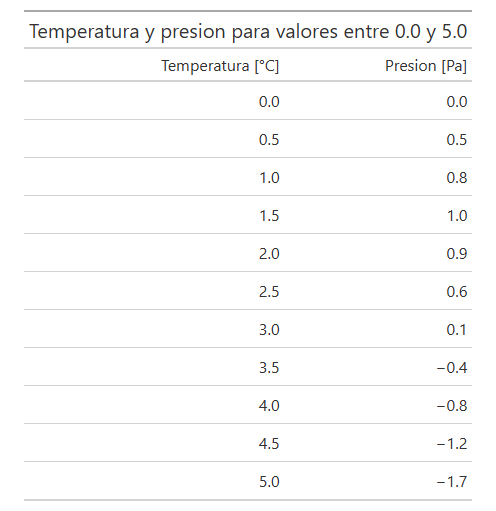
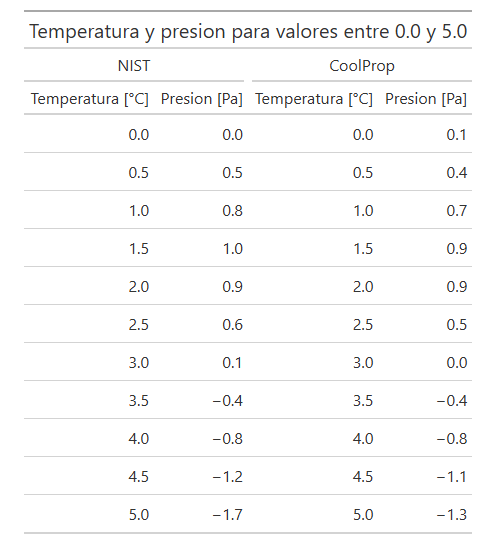
actualizacion de ayuda de la funcion de tabulacion

diff --git a/src/thermo_pkg_nist_compare/generador_tablas.py b/src/thermo_pkg_nist_compare/generador_tablas.py
@@ -5,16 +5,47 @@ import pandas as pd
 from great_tables import GT
 
 #pip install great_tables
-def tabular(x, y, titulo_1="NIST", x_comp=None, y_comp=None, titulo_2="Otro" ,comienzo=None, fin=None, espaciado=None, decimales=3, nombre_x=None, nombre_y=None, unidad_x=None, unidad_y=None, interpolar=True):
+def tabular(x, y, titulo_1="NIST", x_comp=None, y_comp=None, titulo_2="Otro",comienzo=None, fin=None, espaciado=None, decimales=3, nombre_x=None, nombre_y=None, unidad_x=None, unidad_y=None, interpolar=True):
     """
-    Genera una tabla con valores interpolados de (x, y) y la guarda como imagen.
+    Genera una tabla con uno o dos sets de datos (x, y), interpolados o tal cual.
 
-    Interpola con un spline cuadrático desde `comienzo` cada `espaciado`, sin pasarse de `fin`, incluyéndolo.
-    Por defecto: comienzo=x[0], fin=x[-1], espaciado=(fin-comienzo)/20.
-    `decimales` fija cuántos decimales se muestran en la tabla.
+    El set principal (x, y) ocupa las dos primeras columnas. Si se pasan x_comp e y_comp, se agrega
+    un segundo set de comparación en dos columnas más, y cada set lleva arriba su
+    subtítulo (titulo_1 y titulo_2) para identificarlo. Con un solo set no se muestran subtítulos.
+    Si los sets tienen distinto largo, las celdas que sobran quedan vacías.
 
-    Si se pasan nombres y unidades de las variables, guarda la tabla como PNG
-    en la carpeta "Tablas". Si falta alguno, no la gguarda, solo la genera.
+    Si interpolar es True, cada set se reemplaza por su interpolación: un spline cuadrático
+    evaluado desde comienzo cada espaciado, hasta fin e incluyéndolo. Si es False,
+    se usan los datos tal cual.
+
+    Si se pasan los nombres y las unidades de las dos variables, la tabla se guarda como PNG
+    en la carpeta "Tablas" (se crea si no existe), con las variables y el rango en el nombre del
+    archivo. Si falta alguno, se muestra con encabezados genéricos y no se guarda.
+
+    Parámetros:
+        x, y : array
+            Datos del set principal.
+        titulo_1 : str, opcional
+            Subtítulo del set principal. Por defecto, "NIST".
+        x_comp, y_comp : array, opcional
+            Datos del set de comparación. Si no se pasan, o tienen distinto largo entre sí,
+            se tabula solo el set principal.
+        titulo_2 : str, opcional
+            Subtítulo del set de comparación. Por defecto, "Otro".
+        comienzo : float, opcional
+            Valor de x donde empieza la tabla. Por defecto, x[0].
+        fin : float, opcional
+            Valor de x donde termina la tabla, incluido. Por defecto, x[-1].
+        espaciado : float, opcional
+            Paso entre valores de x. Por defecto, |x[-1] - x[0]| / 20.
+        decimales : int, opcional
+            Cantidad de decimales que se muestran. Por defecto, 3.
+        nombre_x, nombre_y : str, opcional
+            Nombres de las variables, para los encabezados, el título y el nombre del archivo.
+        unidad_x, unidad_y : str, opcional
+            Unidades de las variables, para los encabezados.
+        interpolar : bool, opcional
+            Si es True (por defecto), tabula los valores interpolados. Si es False, se usan los datos originales.
     """
     if not(espaciado):
         espaciado = abs((x[0]-x[-1])/20)
@@ -86,8 +117,8 @@ def tabular(x, y, titulo_1="NIST", x_comp=None, y_comp=None, titulo_2="Otro" ,co
         tabla = (
             tabla
             .cols_label({"x_2":variable_x_comp, "y_2":variable_y_comp})
-            .tab_spanner(label=titulo_1, columns=[variable_x, variable_y])
-            .tab_spanner(label=titulo_2, columns=[variable_x_comp, variable_y_comp])
+            .tab_spanner(label=titulo_1, columns=["x_1", "y_1"])
+            .tab_spanner(label=titulo_2, columns=["x_2", "y_2"])
             .sub_missing(missing_text="")
         )
 
